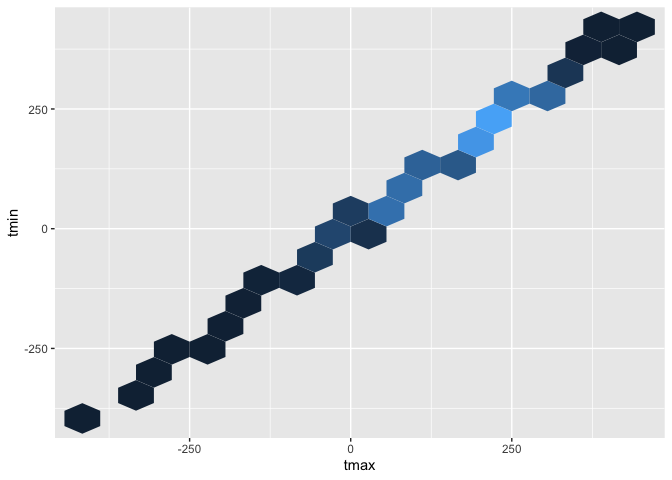
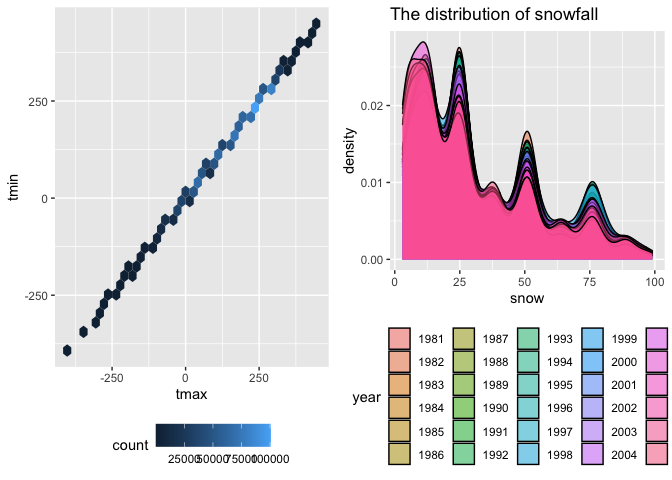
Fix error and complete all problems.

diff --git a/p8105_hw3_js5095.md b/p8105_hw3_js5095.md
@@ -88,7 +88,10 @@ accel_df =
   mutate(day_type = 
            case_when(day %in% c("Monday", "Tuesday", "Wednesday", "Thursday", "Friday") ~ "weekday",
                      day %in% c("Saturday", "Sunday") ~ "weekend"),
-)
+) %>% 
+  separate(col = minute, sep = "_", into = c("to_drop", "minute")) %>% 
+  select(-to_drop) %>% 
+  mutate(minute = as.numeric(minute))
 ```
 
     ## Parsed with column specification:
@@ -99,24 +102,10 @@ accel_df =
 
     ## See spec(...) for full column specifications.
 
-``` r
-accel_df =
-  accel_df %<>% 
-  separate(col = minute, sep = "_", into = c("to_drop", "minute")) %>% 
-  select(-to_drop) %>% 
-  mutate(minute = as.numeric(minute)) %>% 
-  mutate(day_order = case_when(grepl("Monday", day) ~ 1,
-                               grepl("Tuesday", day) ~ 2,
-                               grepl("Wednesday", day) ~ 3,
-                               grepl("Thursday", day) ~ 4,
-                               grepl("Friday", day) ~ 5,
-                               grepl("Saturday", day) ~ 6,
-                               grepl("Sunday", day) ~ 7))
-```
-
-\*\*\* The resulting dataset has variables including week, day\_id, day,
-minute, activity\_count, day\_type, day\_order, which describe the
-weekday It contains 50400 rows and 7 columns.  
+The resulting dataset has 6 variables including week, day\_id, day,
+minute, activity\_count, day\_type, containing 50400 observations
+recorded by each minute of each day for a total of 5 weeks.  
+The dataframe contains 50400 rows and 6 columns.  
 
 ## 2.2 Using your tidied dataset, aggregate accross minutes to create a total activity variable for each day, and create a table showing these totals.
 
@@ -125,61 +114,32 @@ accel_sum_df =
   accel_df %>% 
   group_by(week, day) %>% 
   mutate(total_activity = sum(activity_count)) %>%
+  mutate(day = factor(day, levels = c("Monday", 
+                                      "Tuesday", 
+                                      "Wednesday", 
+                                      "Thursday", 
+                                      "Friday", 
+                                      "Saturday", 
+                                      "Sunday"))) %>% 
   select(week, day, day_id, total_activity) %>% 
   distinct() 
 
-knitr::kable(accel_sum_df)
-```
-
-| week | day       | day\_id | total\_activity |
-| ---: | :-------- | ------: | --------------: |
-|    1 | Friday    |       1 |       480542.62 |
-|    1 | Monday    |       2 |        78828.07 |
-|    1 | Saturday  |       3 |       376254.00 |
-|    1 | Sunday    |       4 |       631105.00 |
-|    1 | Thursday  |       5 |       355923.64 |
-|    1 | Tuesday   |       6 |       307094.24 |
-|    1 | Wednesday |       7 |       340115.01 |
-|    2 | Friday    |       8 |       568839.00 |
-|    2 | Monday    |       9 |       295431.00 |
-|    2 | Saturday  |      10 |       607175.00 |
-|    2 | Sunday    |      11 |       422018.00 |
-|    2 | Thursday  |      12 |       474048.00 |
-|    2 | Tuesday   |      13 |       423245.00 |
-|    2 | Wednesday |      14 |       440962.00 |
-|    3 | Friday    |      15 |       467420.00 |
-|    3 | Monday    |      16 |       685910.00 |
-|    3 | Saturday  |      17 |       382928.00 |
-|    3 | Sunday    |      18 |       467052.00 |
-|    3 | Thursday  |      19 |       371230.00 |
-|    3 | Tuesday   |      20 |       381507.00 |
-|    3 | Wednesday |      21 |       468869.00 |
-|    4 | Friday    |      22 |       154049.00 |
-|    4 | Monday    |      23 |       409450.00 |
-|    4 | Saturday  |      24 |         1440.00 |
-|    4 | Sunday    |      25 |       260617.00 |
-|    4 | Thursday  |      26 |       340291.00 |
-|    4 | Tuesday   |      27 |       319568.00 |
-|    4 | Wednesday |      28 |       434460.00 |
-|    5 | Friday    |      29 |       620860.00 |
-|    5 | Monday    |      30 |       389080.00 |
-|    5 | Saturday  |      31 |         1440.00 |
-|    5 | Sunday    |      32 |       138421.00 |
-|    5 | Thursday  |      33 |       549658.00 |
-|    5 | Tuesday   |      34 |       367824.00 |
-|    5 | Wednesday |      35 |       445366.00 |
-
-``` r
 ggplot(accel_sum_df, aes(x = day, y = total_activity)) + 
-  geom_violin(aes(fill = week), alpha = .5) + 
-  stat_summary(fun = "median", color = "black")
+  geom_boxplot() +
+  labs(
+    title = "Total Activity per Day",
+    x = "Day",
+    y = "Total Activity per Day"
+  )
 ```
-
-    ## Warning: Removed 7 rows containing missing values (geom_segment).
 
 ![](p8105_hw3_js5095_files/figure-gfm/unnamed-chunk-7-1.png)<!-- -->
 
-\*\*\* It seems his activity of day are more stable on Tuesday to
+There is a minor trend of increasing daily activity from Monday to
+Friday. This subject is less likely to be as active in Saturday compared
+with other days, although their activity picked up on Sundays.
+
+Across all 5 weeks, his activity of day are more stable from Tuesday to
 Thursday, but more fluctuated from Friday to Monday.
 
 ## 2.3 Make a single-panel plot that shows the 24-hour activity time courses for each day and use color to indicate day of the week.
@@ -198,6 +158,11 @@ accel_df %>%
 
 ![](p8105_hw3_js5095_files/figure-gfm/unnamed-chunk-8-1.png)<!-- -->
 
+There is little activity registered from 0 min to \~250 min, which
+correspond to 12 AM to \~ 4AM in the morning. Afterwards this subject
+has activities throughout the day, with multiple spikes. The peak of the
+activity typically appears in the late evening.
+
 # Problem 3
 
 ## 3.0 Read the NY NOAA dataset
@@ -213,6 +178,8 @@ Observations are daily levels of precipitation, snowfall and snow depth,
 which are numeric inputs. Maximum temperature and minimum temperature
 are also recorded here, which are character inputs. These obervations
 are ordered by both date and weather station ID.  
+This data contains too many missing data to be processed until data
+cleaning.
 
 ## 3.1 Data cleaning
 
@@ -564,13 +531,11 @@ tmax_vs_tmin =
   mutate(tmax = as.numeric(tmax, na.rm = TRUE)) %>% 
   mutate(tmin = as.numeric(tmax, na.rm = TRUE)) %>% 
   ggplot(aes(x = tmax, y = tmin)) + 
-  geom_hex(bins = 15) +
-  theme(legend.position = "none")
-
-tmax_vs_tmin
+  geom_hex(bin = 25) +
+  theme(legend.position = "bottom")
 ```
 
-![](p8105_hw3_js5095_files/figure-gfm/unnamed-chunk-12-1.png)<!-- -->
+    ## Warning: Ignoring unknown parameters: bin
 
 ``` r
 snowfall_lim = 
@@ -578,9 +543,16 @@ snowfall_lim =
   filter(snow > 0, snow < 100) %>% 
   ggplot(aes(x = snow, fill = year)) +
   geom_density(alpha = 0.5) +
-  theme(legend.position = "none")
+  ggtitle("The distribution of snowfall") +
+  theme(legend.position = "bottom")
 
-snowfall_lim
+plot_grid(tmax_vs_tmin,snowfall_lim, ncol = 2)
 ```
 
-![](p8105_hw3_js5095_files/figure-gfm/unnamed-chunk-12-2.png)<!-- -->
+![](p8105_hw3_js5095_files/figure-gfm/unnamed-chunk-12-1.png)<!-- -->
+
+There is a linear relationship between the max temperature and the min
+temperature.  
+There are a few typical amount of snowfall throughout the 30 years,
+namely 25, 50 and 75 mm. Moreover, fewer snowfalls are observed in the
+more recent years (after 2005) vs earlier.
